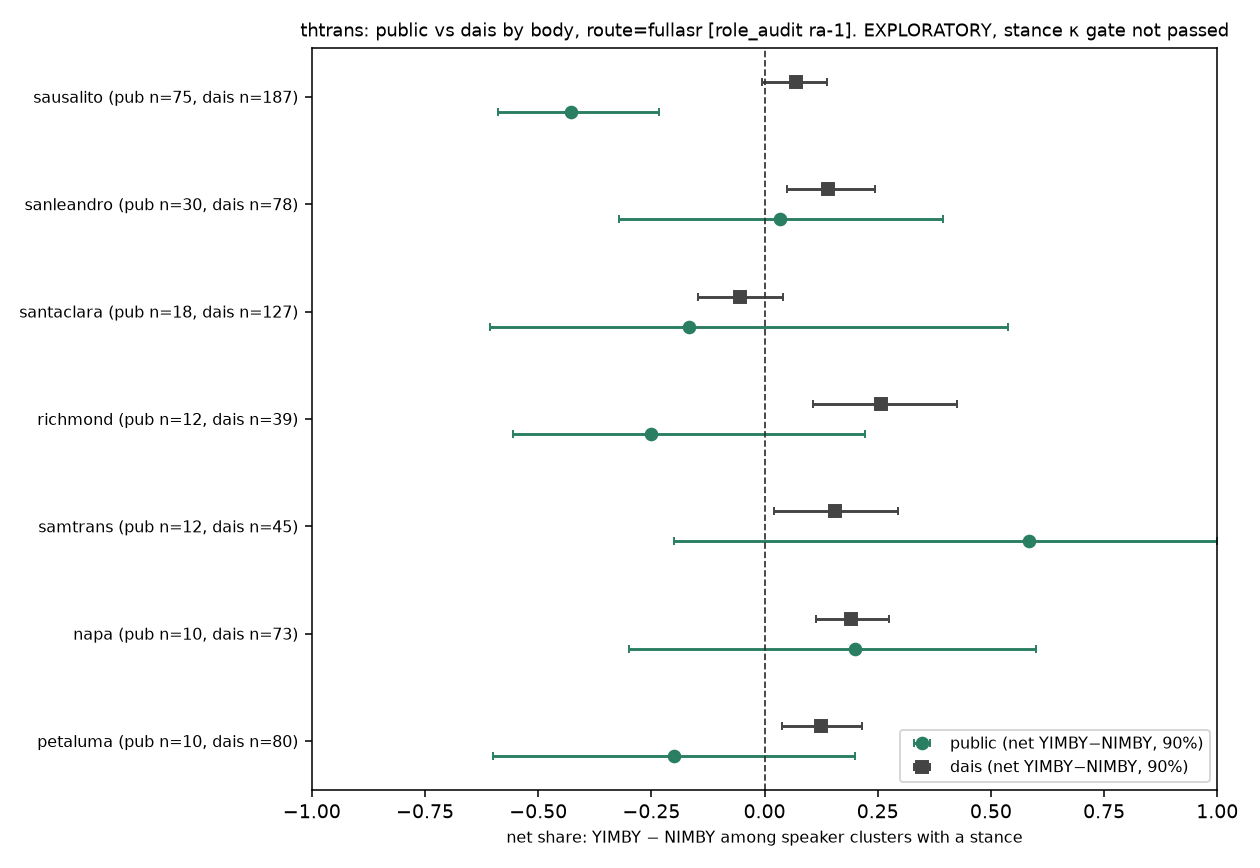
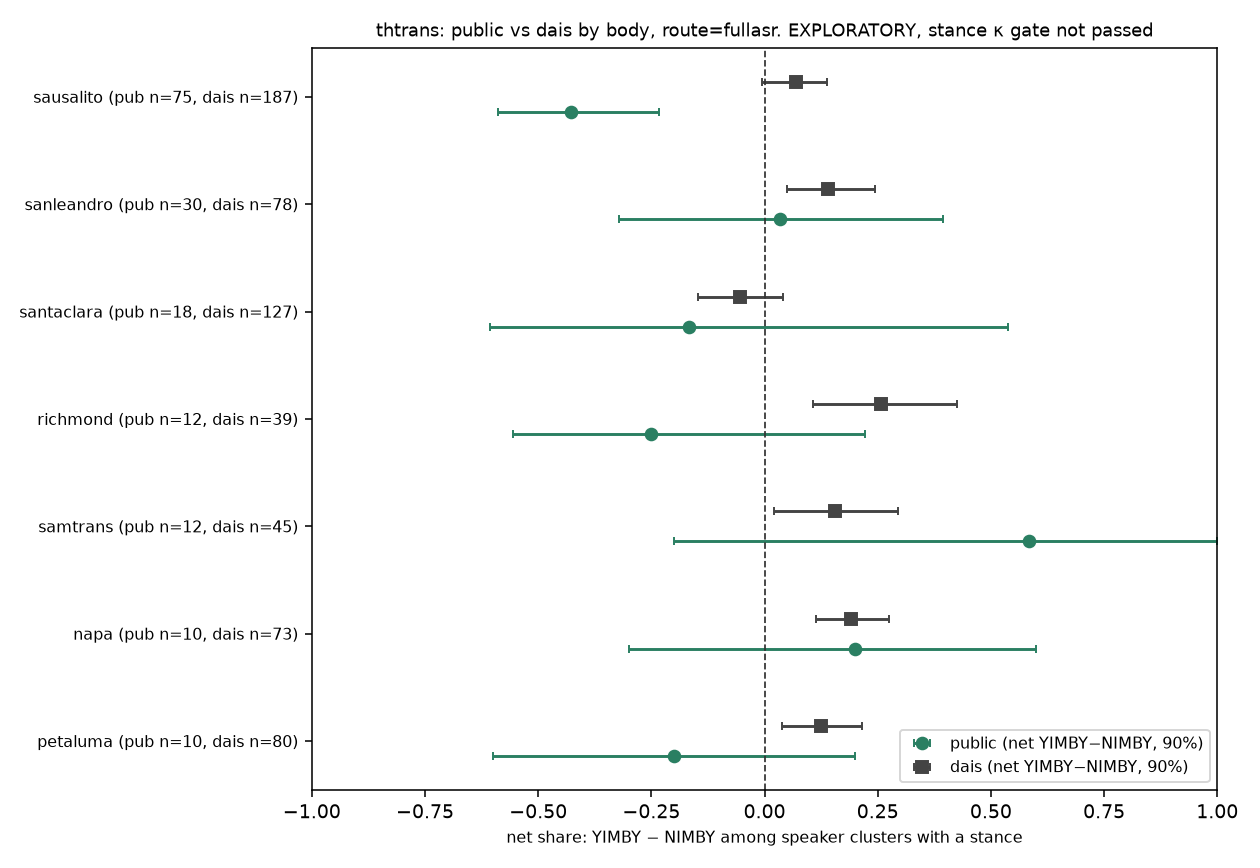
Tidy: chart titles, two write-ups, a path fix

Changed region(s): [[0.2476, 0.0, 0.9905, 0.0622]]

diff --git a/analysis/stance_s1_role_audit_view.py b/analysis/stance_s1_role_audit_view.py
@@ -136,7 +136,7 @@ def figure_shares(res, route, thresh, path, stars):
     fig.tight_layout(); fig.savefig(path, dpi=140); plt.close(fig)
 
 
-def figure_public_vs_dais(rows, route, path, tag):
+def figure_public_vs_dais(rows, route, path):
     plt = _plt()
     bodies = sorted({r["body"] for r in rows if r["role"] == "public"} & {r["body"] for r in rows if r["role"] == "dais"},
                     key=lambda b: -next(r["n_clusters"] for r in rows if r["role"] == "public" and r["body"] == b))
@@ -155,7 +155,10 @@ def figure_public_vs_dais(rows, route, path, tag):
         [f"{b} (pub n={idx[('public', b)]['n_clusters']}, dais n={idx[('dais', b)]['n_clusters']})" for b in bodies], fontsize=8)
     ax.set_xlim(-1, 1); ax.invert_yaxis(); ax.legend(loc="lower right", fontsize=8)
     ax.set_xlabel("net share: YIMBY − NIMBY among speaker clusters with a stance", fontsize=8)
-    ax.set_title(f"thtrans: public vs dais by body, route={route} [{tag}]. {STAMP}", fontsize=9)
+    # Owner, 2026-10-20 22:02: no internal role-audit code in a published title. The
+    # role column is still stated on the panel and in summary.json; the EXPLORATORY
+    # stamp stays on the figure.
+    ax.set_title(f"thtrans: public vs dais by body, route={route}. {STAMP}", fontsize=9)
     fig.tight_layout(); fig.savefig(path, dpi=140); plt.close(fig)
     return True
 
@@ -203,7 +206,7 @@ def main(argv=None):
                 print(f"   {r['body']:<12} n={r['n_clusters']:<4} YIMBY {r['YIMBY_share']:.2f}  NIMBY {r['NIMBY_share']:.2f}  "
                       f"net {r['net_yimby_minus_nimby']:+.2f} ({r['net_lo90']:+.2f},{r['net_hi90']:+.2f})"
                       f"{'  *' if r['star'] else ''}", flush=True)
-        if figure_public_vs_dais(rows_pub + rows_dais, route, out / f"fig_public_vs_dais_{route}{sfx}.png", tag):
+        if figure_public_vs_dais(rows_pub + rows_dais, route, out / f"fig_public_vs_dais_{route}{sfx}.png"):
             summ["figures"].append(f"fig_public_vs_dais_{route}{sfx}.png")
     pd.DataFrame(all_rows).to_csv(out / f"public_dais_shares_by_body_route{sfx}.csv", index=False)
     wide = []

diff --git a/ops/meeting_manifest.py b/ops/meeting_manifest.py
@@ -26,7 +26,7 @@ import unicodedata
 from pathlib import Path
 
 REPO = Path(__file__).resolve().parent.parent
-DB = Path(os.environ.get("STATE_DB_PATH", Path.home() / ".local/share/ytpt/state.sqlite"))
+DB = Path(os.environ.get("STATE_DB_PATH", Path.home() / ".local/share/ytpt/state.sqlite")).expanduser()
 PREFIX = "transit_bay"
 
 # Audio extensions that can hold a whole meeting, best quality first. m4a is the

diff --git a/docs/REPORT.md b/docs/REPORT.md
@@ -257,10 +257,9 @@ overdispersion prior at the re-run.
 > since been audited (`plan/ROLE-AUDIT-2026-10-18.md`), which is now the
 > reported role. On the frame, under `role_audit`: the **stance** gap on
 > density is **−0.06 (90 % −0.30, +0.20)** — indistinguishable from zero, where
-> the cue-role fit on the same input gives −0.38 (−0.62, −0.13). *The "public
-> is more opposed on density" reading was largely dais speech sitting in the
-> public bucket.* The **hostility** gap is **+2.15 (1.85, 2.46)**, larger than
-> the cue-role +1.80 (1.49, 2.09): the mislabelled dais speech had been
+> the cue-role fit on the same input gives −0.38 (−0.62, −0.13). The
+> **hostility** gap is **+2.15 (1.85, 2.46)**, larger than the cue-role +1.80
+> (1.49, 2.09): the mislabelled dais speech had been
 > diluting it. For stance the number to quote is not the latent gap at all but
 > the model-free tail shares — the public is more opposed by **33 points on
 > density (90 % 27 to 40)** and more supportive by **31 (25 to 37)** — because

diff --git a/docs/post-lucashenry.md b/docs/post-lucashenry.md
@@ -124,10 +124,9 @@ second, independent instrument — so I audited one against the other. Where the
 speaker says who they are, **one in five to two in five turns in the "public"
 bucket say they are an elected member or staff.** Switching the reported role
 to that audit moves the per-family stance gap on density from **−0.38 (90%
-−0.62 to −0.13) to −0.06 (−0.30 to +0.20)**: *the "public is more opposed on
-density" result largely was dais speech sitting in the public bucket.* The
-model-free tail shares go the other way and get wider, because the clusters
-leaving the public bucket are long hedged member speeches and the ones
+−0.62 to −0.13) to −0.06 (−0.30 to +0.20)**. The model-free tail shares go the
+other way and get wider, because the clusters leaving the public bucket are
+long hedged member speeches and the ones
 arriving from the dais side are short and opinionated. Both facts are the same
 fact.
 
